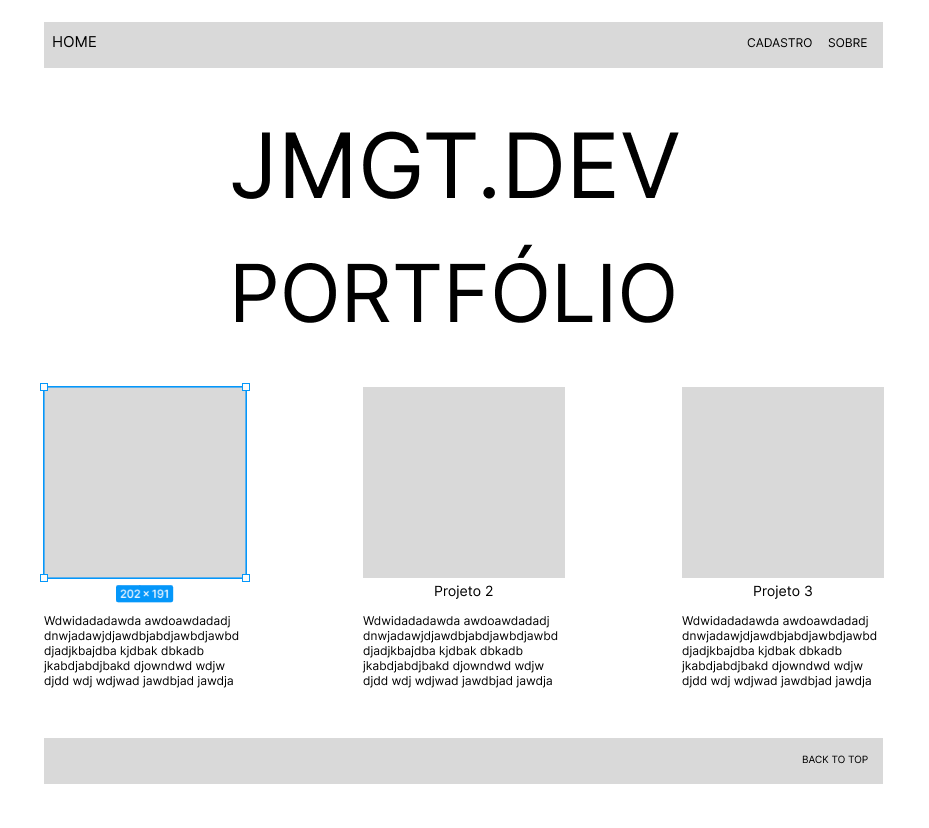
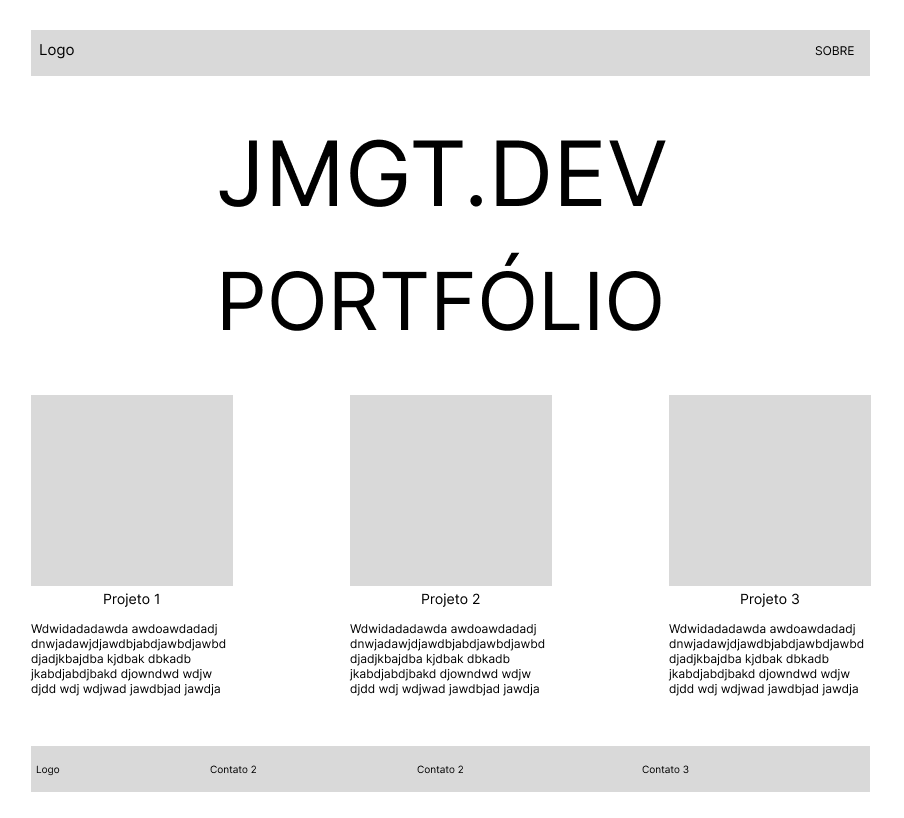
Modificação do modelo da página principal e estrutura do html completa

diff --git a/index.html b/index.html
@@ -1,0 +1,47 @@
+<!DOCTYPE html>
+<html lang="en">
+<head>
+    <meta charset="UTF-8">
+    <meta name="viewport" content="width=device-width, initial-scale=1.0">
+    <title>Portfólio JMGT.DEV</title>
+</head>
+<body>
+    <header class="header">
+        <img class="logo header-logo">
+        <p class="button button-sobre">SOBRE</p>
+    </header>
+    <section class="title main-title">
+        <p>JMGT.DEV</p>
+    </section>
+    <section class="title sub-title">
+        <p>PORTFÓLIO</p>
+    </section>
+    <div class="projects">
+        <div class="project project1">
+            <img class="project-img project1-img">
+            <p class="project-title project1-title">Projeto 1</p>
+            <p class="project-text project1-text"> Lorem ipsum dolor, sit amet consectetur adipisicing elit. Labore sunt ut harum.</p>
+        </div>
+        <div class="project project2">
+            <img class="project-img project1-img">
+            <p class="project-title project2-title">Projeto 2</p>
+            <p class="project-text project2-text">Lorem ipsum, dolor sit amet consectetur adipisicing elit. Similique nesciunt consectetur fuga!</p>
+        </div>
+        <div class="project project3">
+            <img class="project-img project1-img">
+            <p class="project-title project3-title">Projeto 3</p>
+            <p class="project-text project3-text">Lorem ipsum, dolor sit amet consectetur adipisicing elit. Similique nesciunt consectetur fuga!</p>
+        </div>
+    </div>
+    <footer class="footer">
+        <div class="logo footer-logo">
+            <img>
+        </div>
+        <div class="contacts">
+            <p class="contact contact1">Contato 1</p>
+            <p class="contact contact2">Contato 2</p>
+            <p class="contact contact3">Contato 3</p>
+        </div>
+    </footer>
+</body>
+</html>

diff --git a/README.md b/README.md
@@ -1,0 +1,1 @@
+Portfólio pessoal para apresentação dos projetos.
